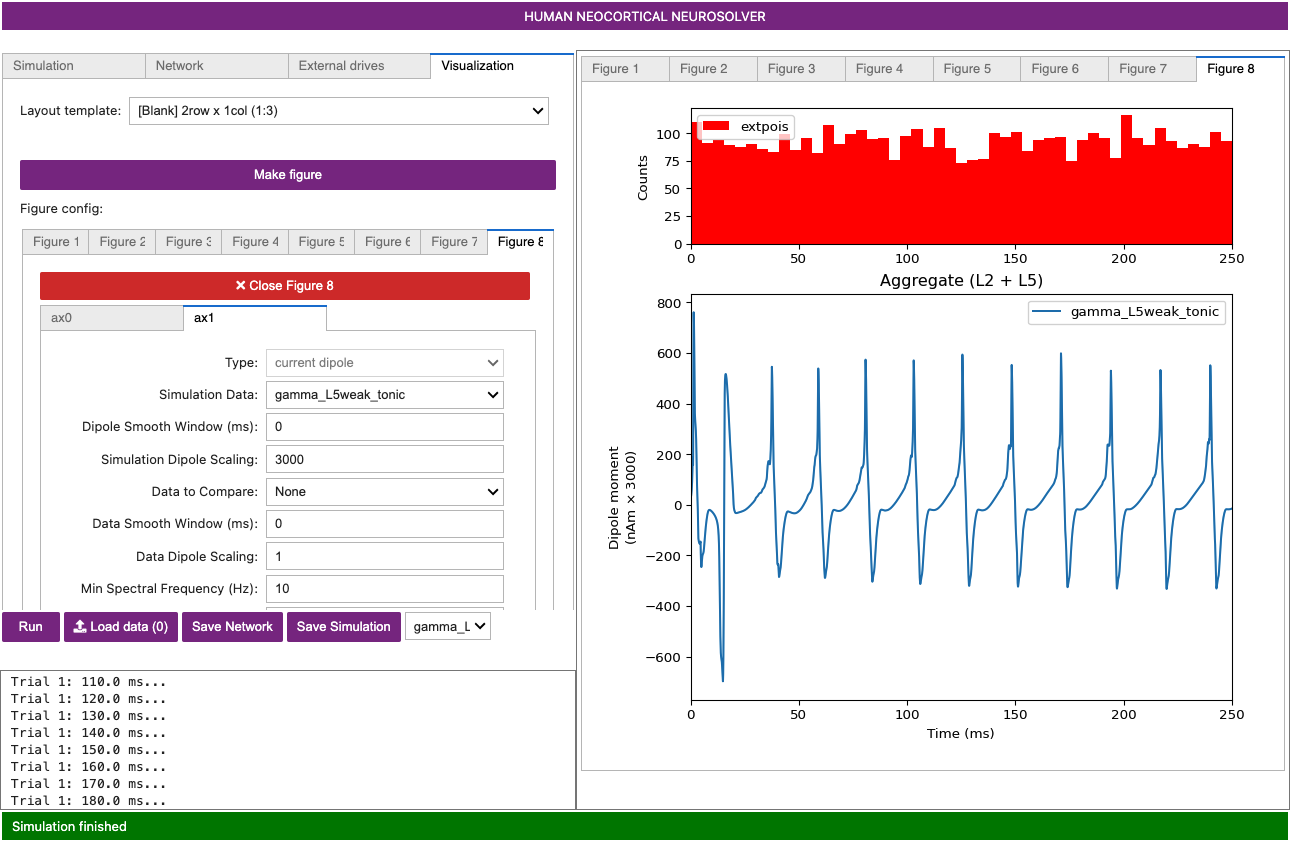
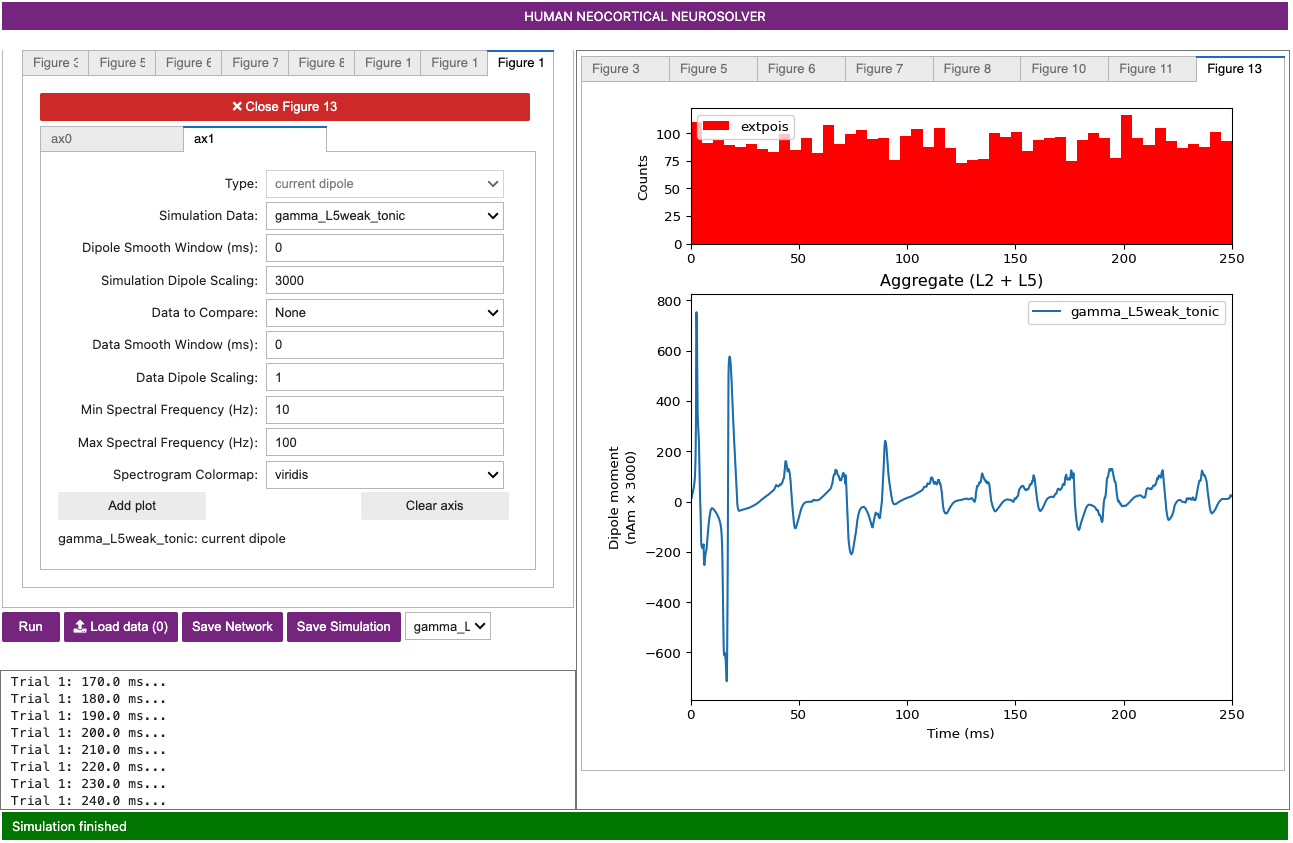
change structure and add new images

diff --git a/coregui_gamma/coregui_gamma.html b/coregui_gamma/coregui_gamma.html
@@ -371,22 +371,18 @@ the Layer 2/3 pyramidal neurons is smaller than Layer 5, and hence Layer
 activity in Layer 5 (see [1] for further discussion).</p>
 <p><a id="toc_4"></a></p>
 <h2 id="adjusting-parameters">4 Adjusting parameters</h2>
-<p>In the following sections, we explore parameter alterations
-influencing the generation of gamma rhythms.</p>
-<p>In <strong>Section 4.1</strong>, we’ll use HNN to explore the impact
-of two key parameters controlling gamma rhythmicity: cell excitability
-and network connectivity</p>
-<p>In <strong>Section 4.2</strong>, we’ll show that gamma can also be
-generate with only tonic inputs to the pyramidal neurons.</p>
-<h3 id="adjusting-cell-excitability">4.1.1 Adjusting cell
-excitability</h3>
+<p>In the following sections, we explore the impacts of two key
+parameters controlling gamma rhythmicity: cell excitability and network
+connectivity</p>
 <p>Cell “excitability” can be adjusted in many ways, reflecting the
 intrinsic properties of a neuron (e.g. membrane resting potential)
 and/or the influence of external factors such as noisy background inputs
-or tonic drive via neuromodulation. Parameters controlling network
-connectivity include the synaptic connection strengths between cells
-and/or the time constants of synaptic activation. Here, we explore the
-influence of a few of these factors on gamma rhythmicity. To do so, we
+neuromodulation.</p>
+<p>Parameters controlling network connectivity include the synaptic
+connection strengths between cells and/or the time constants of synaptic
+activation.</p>
+<h3 id="section">4.1</h3>
+<p>To explore the influence of these factors on gamma rhythmicity, we
 will examine activity in only one of the layers, namely Layer 5, by
 setting all inputs and connectivity in Layer 2/3 to zero.</p>
 <p>First, navigate to the <code>Simulation</code> tab and change the
@@ -423,6 +419,8 @@ under the <code>Vizualization</code> tab and above the
 <p>Notice the weak PING rhythm in Layer 5 consisting of weakly
 synchronous pyramidal neuron firing, followed by synchronous inhibitory
 neuron firing, that gates the network dipole rhythm to ~50 Hz.</p>
+<h3 id="increasing-cell-excitability-via-a-weak-tonic-input">4.1.1
+Increasing cell excitability via a weak tonic input</h3>
 <p>To examine the impact of cell excitability on gamma expression, we
 can increase the excitability of the Layer 5 pyramidal neurons by adding
 a tonic applied current that might represent a neuromodulatory
@@ -431,8 +429,8 @@ influence.</p>
 select the <code>Tonic</code> option under <code>Drive</code> and click
 the <code>Add drive</code> button. This will create a new external drive
 titled <code>Tonic1</code>, as shown in Figure 10 below. Select the new
-drive, and then set the aplitude of the tonic drive to the Layer 5
-pyramidal neuron to be 6 nA. This level of injected current will be
+drive, and then set the amplitude of the tonic drive to the Layer 5
+pyramidal neuron to be 2 nA. This level of injected current will be
 applied to the soma of the L5 Pyramidal neurons for the duration of the
 simulation.</p>
 <h4 id="figure-10.a">Figure 10.A</h4>
@@ -459,24 +457,31 @@ below.</p>
 <div style="display:block; width:90%; max-width:800px; margin: 0 auto;">
 <p><img src="images/gamma_fig_11_03.png" /></p>
 </div>
-<p>The oscillation as seen in the dipole is more regular with less noise
-due to the fact that the tonic drive is strong and outweighs the
-influence of the Poisson drive.</p>
-<p>Note in the spike plot that the Layer 5 pyramidal neurons are now
-firing nearly synchronously. They, in turn, synchronously activate the
-inhibitory basket neurons, which then inhibit the pyramidal neurons for
-~20 ms. After ~20 ms, the tonic drive outweighs the inhibition and the
-pyramidal neurons fire again, creating a ~50 Hz PING rhythm.</p>
-<p>This type of synchronous rhythm is sometimes referred to as “strong”
-PING. Notice that there is also a ~90 Hz component to the dipole
-spectrogram. Inspection of the dipole waveform shows that this 90 Hz
-activity does not represent a separate rhythm, but rather reflects the
-dipole waveform shape, which has a fast oscillation on each cycle of the
-slower rhythm due to the strong downward currents induced by somatic
-inhibition on the pyramidal neurons.</p>
-<h3 id="adjusting-network-connectivity">4.1.2 Adjusting network
-connectivity</h3>
-<p><strong>Weakening the excitatory connections</strong></p>
+<p>Note that network takes longer to stabilize due to the initial impact
+of the tonic current. From about 50 ms onward, we see that the initial
+impact of the tonic input has subsided and the influence of both the
+tonic and Poisson drives is more evident.</p>
+<p>Figure 11.B shows the spike plot from the previous simulation
+(<code>gamma_L5weak</code>) on the top and the spike plot from the
+latest simulation (<code>gamma_L5weak_tonic</code>) on the bottom. We
+see that by introducing a weak tonic input, the pyramidal neuron spiking
+is visibly more synchronous, though with some noise still present from
+the Poisson drive.</p>
+<p>Figure 11.C similarly shows the spectrograms, with previous
+simulation (<code>gamma_L5weak</code>) on the top and the latest
+simulation (<code>gamma_L5weak_tonic</code>) on the bottom. We observe
+that after the network stabilizes, the frequency of gamma appears to
+have decreased slightly.</p>
+<p>We see that while increasing the excitability causes the PNs to fire
+more synchronously, interpreting the competing effects of excitation and
+inhibition is not always straightforward. The moderately more
+synchronous pyramidal neuron firing is not quite strong enough to induce
+a “strong” PING in the local network. However, the overall increase in
+the pyramidal neuron firing rate appears to more strongly recruit the
+inhibitory interneurons, which has the overall effect of slightly
+lowering the frequency of the ovserved gamma rhythm.</p>
+<h3 id="weakening-the-excitatory-connections">4.1.2 Weakening the
+excitatory connections</h3>
 <p>We’ll now explore the impact of adjusting synaptic connectivity
 parameters in the network.</p>
 <p>First navigate to the <code>Connectivity</code> section of the
@@ -510,7 +515,8 @@ This slowing is due to the fact that the excitatory-to-inhibitory
 connection was weakened. Due to this change, it now takes longer for the
 basket cells to respond to the excitation, and hence the rhythm is
 slowed.</p>
-<p><strong>Removing the inhibitory connections</strong></p>
+<h3 id="removing-the-inhibitory-connections">4.1.3 Removing the
+inhibitory connections</h3>
 <p>Next, we’ll explore the importance of the inhibitory connections in
 setting gamma rhythmicity.</p>
 <p>First from the <code>Network</code> section of the
@@ -543,7 +549,8 @@ also observe this in the Simulation Spiking Activity (below). This lack
 of regularity is due to the fact that removal of the inhibitory to
 inhibitory connections caused the inhibition to be less synchronous and
 noiser, in turn yielding a noisier PING rhythm.</p>
-<p><strong>Reducing the GABAB decay time</strong></p>
+<h4 id="reducing-the-gabaa-decay-time">4.1.4 Reducing the GABAA decay
+time</h4>
 <p>Lastly, we’ll show that the time constant of inhibitory decay is an
 essential parameter controlling the frequency of the PING rhythm.</p>
 <p>In the <code>Network</code> section of the <code>Connectivity</code>
@@ -590,7 +597,7 @@ the spiking activity, the faster decay of inhibition allows the
 pyramidal neurons to recover more quickly from the inhibition and
 respond to the Poisson drive, resulting in a faster network
 oscillation.</p>
-<h3 id="exercises-for-further-exploration">4.1.1 Exercises for further
+<h3 id="exercises-for-further-exploration">4.1.5 Exercises for further
 exploration</h3>
 <ul>
 <li><p>How else might the excitability of the cells be adjusted? What
@@ -605,8 +612,8 @@ by interneuron firing (interneuron mediated gamma: ING). Can you adjust
 parameters to create such an oscillation in the network?</p></li>
 </ul>
 <h3
-id="only-tonic-inputs-to-pyramidal-neurons-can-also-generate-gamma">4.2
-Only tonic inputs to pyramidal neurons can also generate gamma</h3>
+id="strong-gamma-can-arise-from-tonic-inputs-to-pyramidal-neurons">5.1
+“Strong” gamma can arise from tonic inputs to pyramidal neurons</h3>
 <p>The next exercise involves setting up a PING rhythm in both Layer 2/3
 and Layer 5 by providing tonic inputs to the pyramidal neurons, as
 opposed to the stochastic Poisson inputs described above. To do so, we
@@ -746,8 +753,8 @@ to rise quickly even before the inhibitory neurons fire.
 <p>As an exercise, play with the current injection amplitude provided to
 the different neurons to see how it affects the generated rhythm.</p>
 <h3
-id="gamma-through-rhythmic-subthreshold-synaptic-inputs-to-pyramidal-neurons">4.3
-Gamma through rhythmic subthreshold synaptic inputs to pyramidal
+id="gamma-can-emerge-from-rhythmic-subthreshold-synaptic-inputs-to-pyramidal-neurons">5.2
+Gamma can emerge from rhythmic subthreshold synaptic inputs to pyramidal
 neurons</h3>
 <p>In the next example, we will apply 50 Hz rhythmic synaptic inputs
 through proximal and distal projection patterns to produce gamma
@@ -825,9 +832,9 @@ shape in this simulation is distinct from the previous examples, lacking
 the sharp deflections produced by neuronal firing and strong somatic
 inhibition during PING.</p>
 <h3
-id="gamma-through-rhythmic-subthreshold-synaptic-inputs-to-pyramidal-neurons-with-additional-noise">4.4
-Gamma through rhythmic subthreshold synaptic inputs to pyramidal
-neurons, with additional noise</h3>
+id="adding-noise-to-gamma-generate-through-rhythmic-subthreshold-synaptic-inputs">5.2.1
+Adding noise to gamma generate through rhythmic subthreshold synaptic
+inputs</h3>
 <p>In the final simulation of this section, we will add more noise to
 the previously applied 50 Hz rhythmic drive.</p>
 <p>For each of the drives in the <code>External drives</code> tab,
@@ -861,7 +868,7 @@ intermittent 50 Hz gamma events visible in the wavelet spectrogram.</p>
 <p>With the added noise, we also observe lower-frequency peaks with
 relatively high power in the average PSD, though the intermittent gamma
 events still yield the highest-power peak observed in the PSD.</p>
-<h3 id="exercises-for-further-exploration-1">4.4.1 Exercises for further
+<h3 id="exercises-for-further-exploration-1">5.2.2 Exercises for further
 exploration</h3>
 <ul>
 <li><p>Go back to the <code>gamma_L5weak_L2weak</code> configuration and
@@ -875,7 +882,7 @@ can you alter the peak gamma frequency?</p></li>
 rhythmicity retained? Under what circumstances might gamma
 persist?</p></li>
 </ul>
-<h2 id="have-fun-exploring-your-own-data">5. Have fun exploring your own
+<h2 id="have-fun-exploring-your-own-data">6. Have fun exploring your own
 data!</h2>
 <p>We have not observed strong gamma activity in our SI dipole data, and
 as such have not provided an example data set to compare simulation

diff --git a/coregui_gamma/coregui_gamma.md b/coregui_gamma/coregui_gamma.md
@@ -199,15 +199,15 @@ Notice that the power in the gamma band is smaller in Layer 2/3 than in Layer 5.
 
 ## 4 Adjusting parameters
 
-In the following sections, we explore parameter alterations influencing the generation of gamma rhythms.
+In the following sections, we explore the impacts of two key parameters controlling gamma rhythmicity: cell excitability and network connectivity
 
-In **Section 4.1**, we'll use HNN to explore the impact of two key parameters controlling gamma rhythmicity: cell excitability and network connectivity
+Cell “excitability” can be adjusted in many ways, reflecting the intrinsic properties of a neuron (e.g. membrane resting potential) and/or the influence of external factors such as noisy background inputs neuromodulation. 
 
-In **Section 4.2**, we'll show that gamma can also be generate with only tonic inputs to the pyramidal neurons. 
+Parameters controlling network connectivity include the synaptic connection strengths between cells and/or the time constants of synaptic activation. 
 
-### 4.1.1 Adjusting cell excitability
+### 4.1
 
-Cell “excitability” can be adjusted in many ways, reflecting the intrinsic properties of a neuron (e.g. membrane resting potential) and/or the influence of external factors such as noisy background inputs or tonic drive via neuromodulation. Parameters controlling network connectivity include the synaptic connection strengths between cells and/or the time constants of synaptic activation. Here, we explore the influence of a few of these factors on gamma rhythmicity. To do so, we will examine activity in only one of the layers, namely Layer 5, by setting all inputs and connectivity in Layer 2/3 to zero.
+To explore the influence of these factors on gamma rhythmicity, we will examine activity in only one of the layers, namely Layer 5, by setting all inputs and connectivity in Layer 2/3 to zero.
 
 First, navigate to the `Simulation` tab and change the `Name` to reflect the fact that we will be running a new simulation. We'll use the name `gamma_L5weak_only`. 
 
@@ -247,9 +247,11 @@ You can follow the same steps as outlined in Section 3 above to generate these v
 
 Notice the weak PING rhythm in Layer 5 consisting of weakly synchronous pyramidal neuron firing, followed by synchronous inhibitory neuron firing, that gates the network dipole rhythm to ~50 Hz.
 
+### 4.1.1 Increasing cell excitability via a weak tonic input
+
 To examine the impact of cell excitability on gamma expression, we can increase the excitability of the Layer 5 pyramidal neurons by adding a tonic applied current that might represent a neuromodulatory influence. 
 
-To do so, first select the `External drives` tab, then select the `Tonic` option under `Drive` and click the `Add drive` button. This will create a new external drive titled `Tonic1`, as shown in Figure 10 below. Select the new drive, and then set the aplitude of the tonic drive to the Layer 5 pyramidal neuron to be 6 nA. This level of injected current will be applied to the soma of the L5 Pyramidal neurons for the duration of the simulation. 
+To do so, first select the `External drives` tab, then select the `Tonic` option under `Drive` and click the `Add drive` button. This will create a new external drive titled `Tonic1`, as shown in Figure 10 below. Select the new drive, and then set the amplitude of the tonic drive to the Layer 5 pyramidal neuron to be 2 nA. This level of injected current will be applied to the soma of the L5 Pyramidal neurons for the duration of the simulation. 
 
 #### Figure 10.A
 
@@ -293,15 +295,15 @@ After adding the tonic drives, change the simulation name to `gamma_L5weak_tonic
 
 </div>
 
-The oscillation as seen in the dipole is more regular with less noise due to the fact that the tonic drive is strong and outweighs the influence of the Poisson drive. 
+Note that network takes longer to stabilize due to the initial impact of the tonic current. From about 50 ms onward, we see that the initial impact of the tonic input has subsided and the influence of both the tonic and Poisson drives is more evident.
 
-Note in the spike plot that the Layer 5 pyramidal neurons are now firing nearly synchronously. They, in turn, synchronously activate the inhibitory basket neurons, which then inhibit the pyramidal neurons for ~20 ms. After ~20 ms, the tonic drive outweighs the inhibition and the pyramidal neurons fire again, creating a ~50 Hz PING rhythm. 
+Figure 11.B shows the spike plot from the previous simulation (`gamma_L5weak`) on the top and the spike plot from the latest simulation (`gamma_L5weak_tonic`) on the bottom. We see that by introducing a weak tonic input, the pyramidal neuron spiking is visibly more synchronous, though with some noise still present from the Poisson drive.
 
-This type of synchronous rhythm is sometimes referred to as “strong” PING. Notice that there is also a ~90 Hz component to the dipole spectrogram. Inspection of the dipole waveform shows that this 90 Hz activity does not represent a separate rhythm, but rather reflects the dipole waveform shape, which has a fast oscillation on each cycle of the slower rhythm due to the strong downward currents induced by somatic inhibition on the pyramidal neurons.
+Figure 11.C similarly shows the spectrograms, with previous simulation (`gamma_L5weak`) on the top and the latest simulation (`gamma_L5weak_tonic`) on the bottom. We observe that after the network stabilizes, the frequency of gamma appears to have decreased slightly.
 
-### 4.1.2 Adjusting network connectivity
+We see that while increasing the excitability causes the PNs to fire more synchronously, interpreting the competing effects of excitation and inhibition is not always straightforward. The moderately more synchronous pyramidal neuron firing is not quite strong enough to induce a "strong" PING in the local network. However, the overall increase in the pyramidal neuron firing rate appears to more strongly recruit the inhibitory interneurons, which has the overall effect of slightly lowering the frequency of the ovserved gamma rhythm. 
 
-**Weakening the excitatory connections**
+### 4.1.2 Weakening the excitatory connections
 
 We’ll now explore the impact of adjusting synaptic connectivity parameters in the network. 
 
@@ -337,7 +339,7 @@ It is also instructive to view visualizations for different simulations in the s
 
 Notice that the gamma rhythm has now slowed from ~45 Hz to ~40 Hz. This slowing is due to the fact that the excitatory-to-inhibitory connection was weakened. Due to this change, it now takes longer for the basket cells to respond to the excitation, and hence the rhythm is slowed. 
 
-**Removing the inhibitory connections**
+### 4.1.3 Removing the inhibitory connections
 
 Next, we’ll explore the importance of the inhibitory connections in setting gamma rhythmicity. 
 
@@ -369,7 +371,7 @@ From the `Simulation` tab, change the `Name` to  `gamma_L5weak_only_noinh` and c
 
 Notice that the rhythm is still present but less regular and noisier (compare with first waveform image in this section 4.1 above). You can also observe this in the Simulation Spiking Activity (below). This lack of regularity is due to the fact that removal of the inhibitory to inhibitory connections caused the inhibition to be less synchronous and noiser, in turn yielding a noisier PING rhythm.
 
-**Reducing the GABAB decay time**
+#### 4.1.4 Reducing the GABAA decay time
 
 Lastly, we’ll show that the time constant of inhibitory decay is an essential parameter controlling the frequency of the PING rhythm. 
 
@@ -416,7 +418,7 @@ From the `Simulation` tab, change the `Name` to  `gamma_L5weak_only_fasterinh` a
 
 Notice that the rhythm is now faster at ~ 60 Hz. As illustrated in the spiking activity, the faster decay of inhibition allows the pyramidal neurons to recover more quickly from the inhibition and respond to the Poisson drive, resulting in a faster network oscillation.
 
-### 4.1.1 Exercises for further exploration
+### 4.1.5 Exercises for further exploration
 
 * How else might the excitability of the cells be adjusted? What happens to the network dynamics? Can you make the oscillation faster or slower?
 
@@ -424,7 +426,7 @@ Notice that the rhythm is now faster at ~ 60 Hz. As illustrated in the spiking a
 
 * Gamma rhythms can be created in neworks where the pyramidal neurons do not fire on their own but their activity is still regulated by interneuron firing (interneuron mediated gamma: ING). Can you adjust parameters to create such an oscillation in the network?
 
-### 4.2 Only tonic inputs to pyramidal neurons can also generate gamma
+### 5.1 "Strong" gamma can arise from tonic inputs to pyramidal neurons
 
 The next exercise involves setting up a PING rhythm in both Layer 2/3 and Layer 5 by providing tonic inputs to the pyramidal neurons, as opposed to the stochastic Poisson inputs described above. To do so, we will apply a constant depolarizing current injection to the soma of neurons, representative of a “tonic input”.
 
@@ -523,7 +525,7 @@ In each layer, the inhibitory neurons are firing synchronously and causing stron
 
 As an exercise, play with the current injection amplitude provided to the different neurons to see how it affects the generated rhythm.
 
-### 4.3 Gamma through rhythmic subthreshold synaptic inputs to pyramidal neurons
+### 5.2 Gamma can emerge from rhythmic subthreshold synaptic inputs to pyramidal neurons
 
 In the next example, we will apply 50 Hz rhythmic synaptic inputs through proximal and distal projection patterns to produce gamma oscillations similar to those shown in Figure 8A of (Lee & Jones, 2013) [1]. 
 
@@ -569,7 +571,7 @@ Once completed, navigate to the `Visualization` tab and set the `Layout template
 
 The net dipole signal in this simulation shows a clear gamma rhythm at ~50 Hz, produced by the Layer 5 pyramidal neurons. Note, here the Layer 2/3 pyramidal neurons are not receiving any drive and hence do not contribute to the dipole current. There is only minor stochasticity to the synaptic inputs (burst stdev of 2.5 ms). Also note that the waveform shape in this simulation is distinct from the previous examples, lacking the sharp deflections produced by neuronal firing and strong somatic inhibition during PING.
 
-### 4.4 Gamma through rhythmic subthreshold synaptic inputs to pyramidal neurons, with additional noise
+### 5.2.1 Adding noise to gamma generate through rhythmic subthreshold synaptic inputs
 
 In the final simulation of this section, we will add more noise to the previously applied 50 Hz rhythmic drive.
 
@@ -599,7 +601,7 @@ Due to the higher variability in synaptic input timing, there is now more variab
 
 With the added noise, we also observe lower-frequency peaks with relatively high power in the average PSD, though the intermittent gamma events still yield the highest-power peak observed in the PSD.
 
-### 4.4.1 Exercises for further exploration
+### 5.2.2 Exercises for further exploration
 
 * Go back to the `gamma_L5weak_L2weak` configuration and add recurrent synaptic connectivity between pyramidal neurons within a layer (e.g., L5 Pyr -> L5 Pyr weight = 0.00091e-4); how does that change influence the gamma rhythm? What happens as you change the strength of this connection?
 
@@ -607,7 +609,7 @@ With the added noise, we also observe lower-frequency peaks with relatively high
 
 * Add connectivity between Layer 2/3 and Layer 5? Is gamma rhythmicity retained? Under what circumstances might gamma persist?
 
-## 5. Have fun exploring your own data!
+## 6. Have fun exploring your own data!
 
 We have not observed strong gamma activity in our SI dipole data, and as such have not provided an example data set to compare simulation results to, as in the other tutorials. However, simulation results can be compared to recorded data, as described in the ERP and Alpha/Beta tutorials. Follow steps 1-4 above using your data and parameter adjustments based on your own hypotheses.
 
